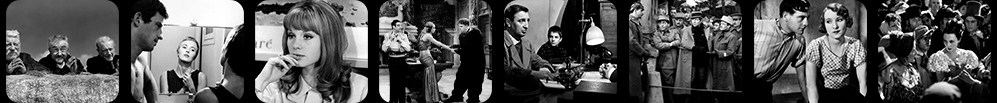
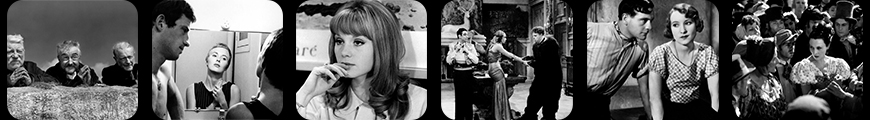
modif height nav

diff --git a/src/App.vue b/src/App.vue
@@ -75,32 +75,6 @@
       background-color: rgba(56, 52, 47, 0.699);
     }
 
-    // ::-webkit-scrollbar-track
-    // {
-    //   -webkit-box-shadow: inset 0 0 6px rgba(0,0,0,0.9);
-    //   border-radius: 3px;
-    //   background-color: #444444;
-    // }
-
-    // ::-webkit-scrollbar
-    // {
-    //   width: 6px;
-    //   height: 6px;
-    //   border-radius: 3px;
-    //   background-color: #444444;
-    // }
-
-    // ::-webkit-scrollbar-thumb
-    // {
-    //   border-radius: 3px;
-    //   background-color: #a51f1e;
-    //   background-image: -webkit-linear-gradient(90deg,
-    //                         transparent,
-    //                         rgba(0, 0, 0, 0.4) 50%,
-    //                         transparent,
-    //                         transparent)
-    // }
-
     .VueCarousel-navigation-button {
       color: $--color-hcf-red !important;
 
@@ -331,7 +305,7 @@
       .frieze-film-deco {
         position: absolute;
         z-index: -1;
-        top: 52px;
+        top: 60px;
         left: 0;
         width: 100%;
         box-shadow: $--box-shadow-dark-4;
@@ -341,7 +315,7 @@
         }
 
         .frieze-img {
-          height: 100px;
+          height: 120px;
           background-image: url("assets/img/frieze-img.jpg");
           background-repeat: repeat-x;
 

diff --git a/src/components/Nav.vue b/src/components/Nav.vue
@@ -146,7 +146,7 @@ export default {
           flex-direction: column;
           justify-content: center;
           position: relative;
-          min-height: 90px;
+          min-height: 100px;
           transition: .5s ease-in-out;
           width: 100%;
 
